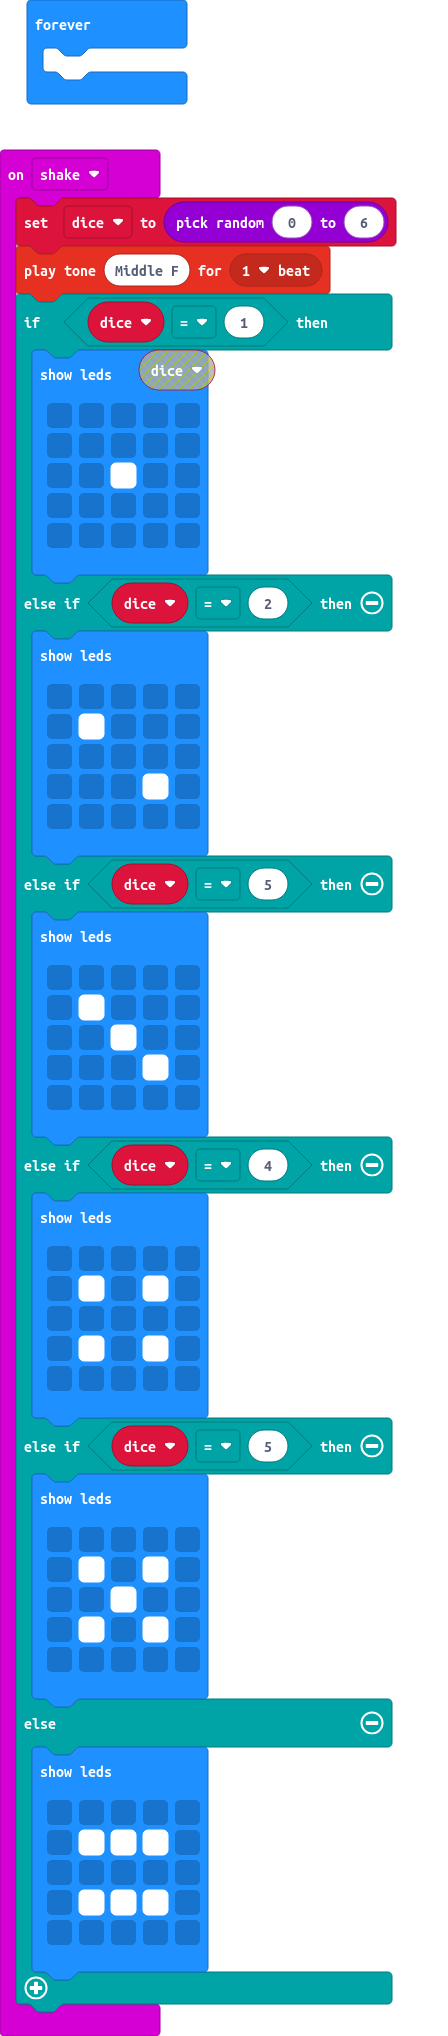
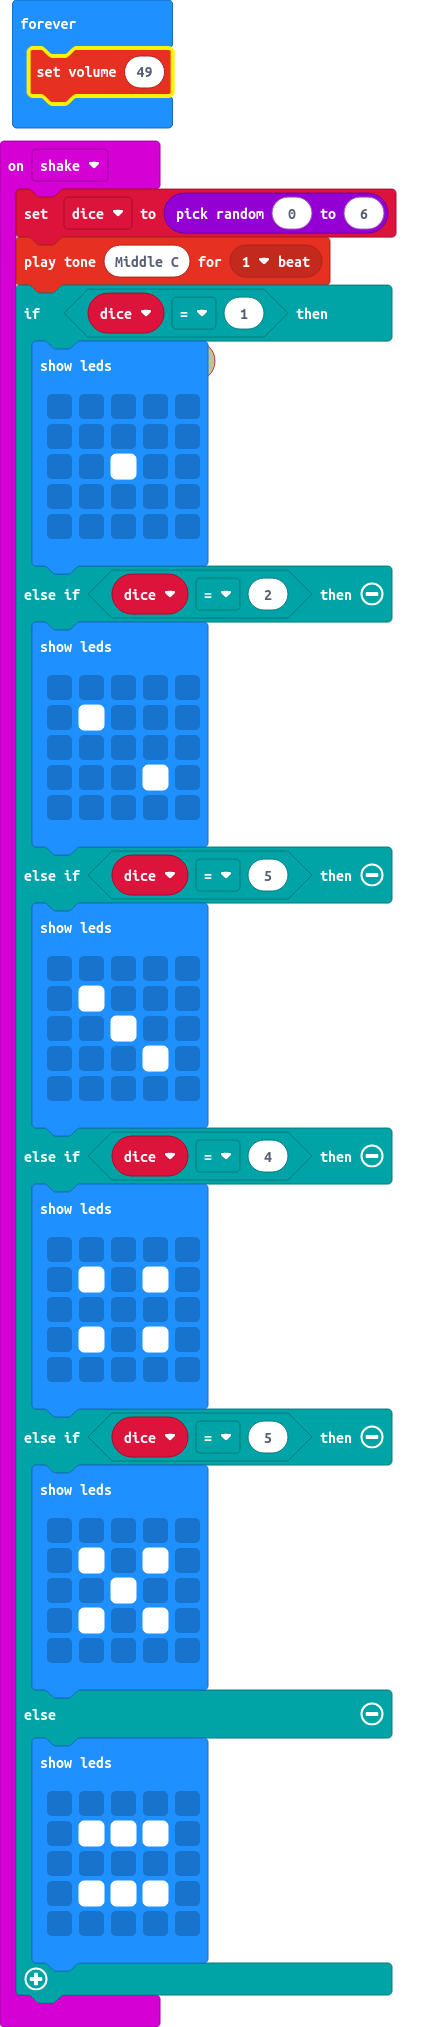
turned down the volume

diff --git a/main.ts b/main.ts
@@ -1,7 +1,7 @@
 let dice = 0
 input.onGesture(Gesture.Shake, function () {
     dice = randint(0, 6)
-    music.playTone(349, music.beat(BeatFraction.Whole))
+    music.playTone(262, music.beat(BeatFraction.Whole))
     if (dice == 1) {
         basic.showLeds(`
             . . . . .
@@ -53,5 +53,5 @@ input.onGesture(Gesture.Shake, function () {
     }
 })
 basic.forever(function () {
-	
+    music.setVolume(49)
 })
